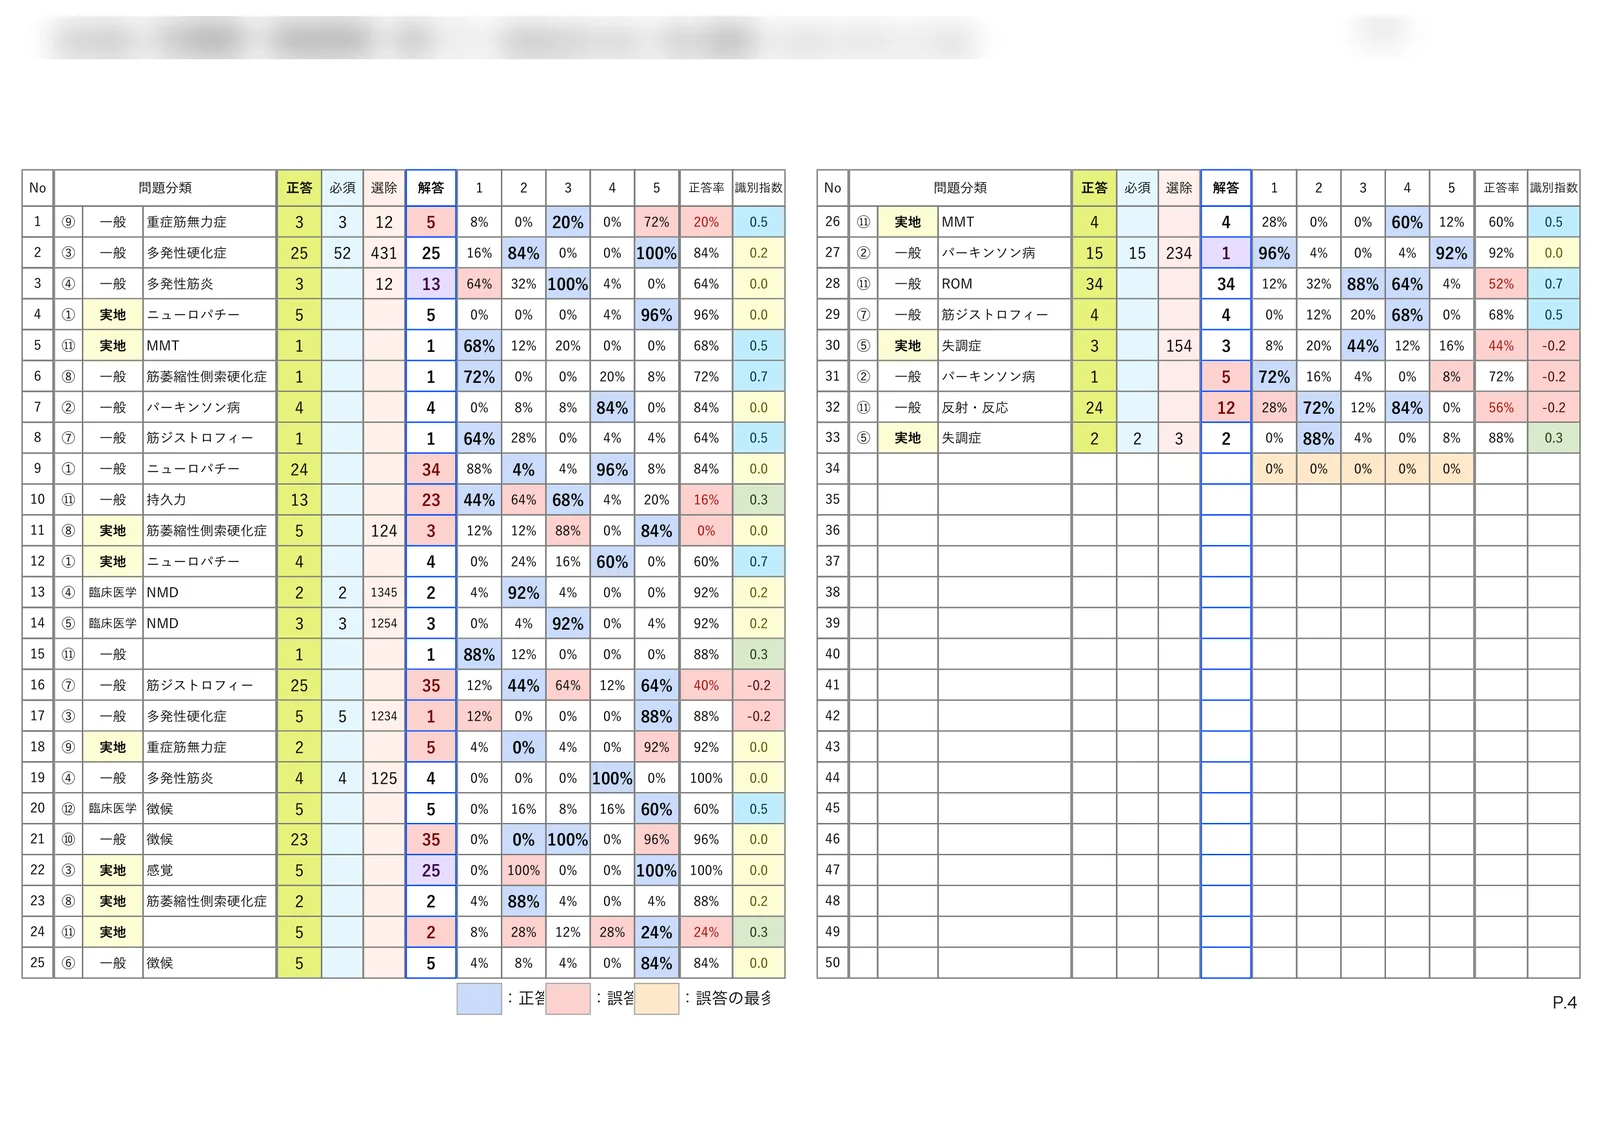
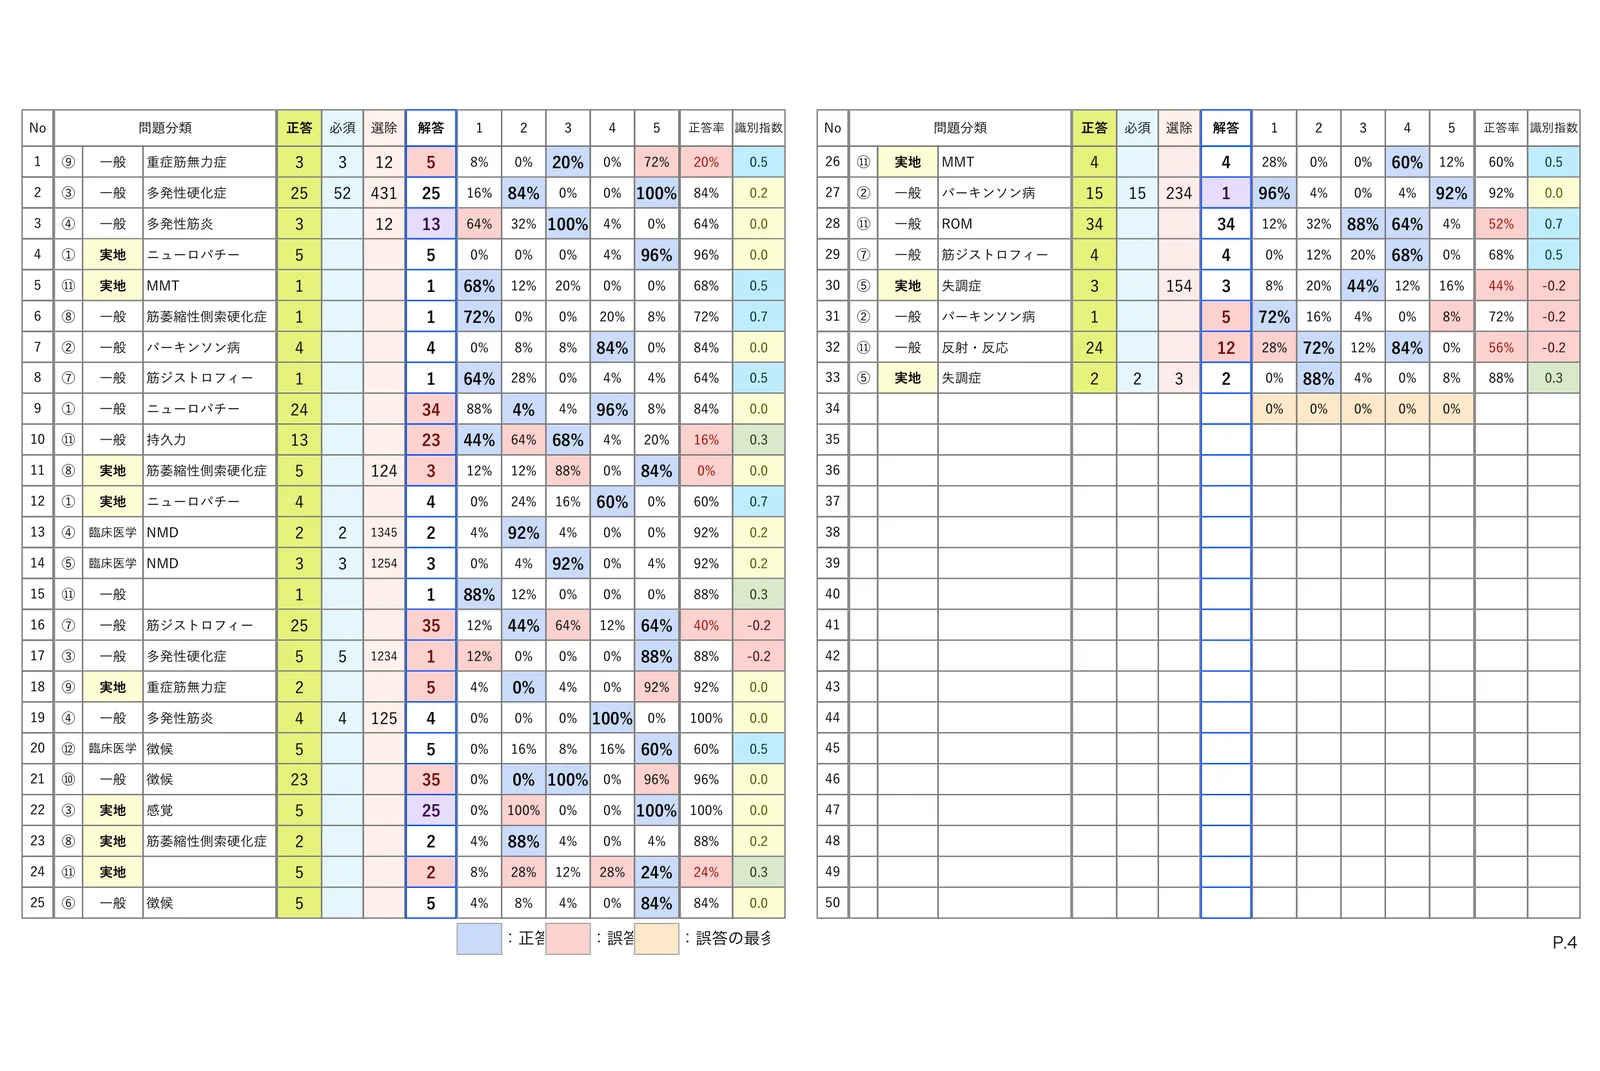
feat: レポート画像上部の不要ヘッダーをトリミング除去し、クリックで拡大する画像モーダル(Esc・外側クリックで閉じる)を実装

diff --git a/exam-patent.html b/exam-patent.html
@@ -248,13 +248,13 @@
 
                         <!-- Image Preview -->
                         <div class="lg:col-span-6 flex flex-col items-center">
-                            <div class="rounded-xl overflow-hidden shadow-lg border border-slate-200 max-w-md w-full bg-slate-50 group relative">
+                            <div class="report-modal-trigger rounded-xl overflow-hidden shadow-lg border border-slate-200 max-w-md w-full bg-slate-50 group relative cursor-pointer cursor-zoom-in transition-all hover:shadow-xl hover:border-secondary/50">
                                 <img src="images/patent/teacher_report_p1.webp" alt="全体試験結果レポート P1 得点分布・箱ひげ図" class="w-full h-auto object-cover transform group-hover:scale-105 transition-transform duration-300">
-                                <div class="absolute inset-0 bg-primary/20 opacity-0 group-hover:opacity-100 transition-opacity flex items-center justify-center">
-                                    <span class="bg-white/90 text-primary font-bold text-xs px-3 py-1.5 rounded-full shadow"><i class="fas fa-search-plus mr-1"></i>実物レポート（P.1）</span>
+                                <div class="absolute inset-0 bg-primary/30 opacity-0 group-hover:opacity-100 transition-opacity flex items-center justify-center">
+                                    <span class="bg-white/95 text-primary font-bold text-xs md:text-sm px-4 py-2 rounded-full shadow-lg flex items-center gap-1.5 transform group-hover:scale-105 transition-transform"><i class="fas fa-search-plus text-secondary"></i>クリックして拡大表示</span>
                                 </div>
                             </div>
-                            <span class="text-[11px] text-slate-400 mt-2">実際の全体試験結果レポート P.1（ヒストグラム ＆ 箱ひげ図）</span>
+                            <span class="text-[11px] text-slate-400 mt-2 flex items-center gap-1"><i class="fas fa-search-plus text-secondary text-[10px]"></i>クリックで全体を拡大プレビュー</span>
                         </div>
                     </div>
                 </div>
@@ -300,13 +300,13 @@
 
                         <!-- Image Preview -->
                         <div class="lg:col-span-6 flex flex-col items-center">
-                            <div class="rounded-xl overflow-hidden shadow-lg border border-slate-200 max-w-md w-full bg-slate-50 group relative">
+                            <div class="report-modal-trigger rounded-xl overflow-hidden shadow-lg border border-slate-200 max-w-md w-full bg-slate-50 group relative cursor-pointer cursor-zoom-in transition-all hover:shadow-xl hover:border-secondary/50">
                                 <img src="images/patent/teacher_report_p2.webp" alt="全体試験結果レポート P2 S-P表分析" class="w-full h-auto object-cover transform group-hover:scale-105 transition-transform duration-300">
-                                <div class="absolute inset-0 bg-primary/20 opacity-0 group-hover:opacity-100 transition-opacity flex items-center justify-center">
-                                    <span class="bg-white/90 text-primary font-bold text-xs px-3 py-1.5 rounded-full shadow"><i class="fas fa-search-plus mr-1"></i>実物レポート（P.2）</span>
+                                <div class="absolute inset-0 bg-primary/30 opacity-0 group-hover:opacity-100 transition-opacity flex items-center justify-center">
+                                    <span class="bg-white/95 text-primary font-bold text-xs md:text-sm px-4 py-2 rounded-full shadow-lg flex items-center gap-1.5 transform group-hover:scale-105 transition-transform"><i class="fas fa-search-plus text-secondary"></i>クリックして拡大表示</span>
                                 </div>
                             </div>
-                            <span class="text-[11px] text-slate-400 mt-2">実際の全体試験結果レポート P.2（S-P表 散布図と要指導者抽出）</span>
+                            <span class="text-[11px] text-slate-400 mt-2 flex items-center gap-1"><i class="fas fa-search-plus text-secondary text-[10px]"></i>クリックで全体を拡大プレビュー</span>
                         </div>
                     </div>
                 </div>
@@ -349,13 +349,13 @@
 
                         <!-- Image Preview -->
                         <div class="lg:col-span-6 flex flex-col items-center">
-                            <div class="rounded-xl overflow-hidden shadow-lg border border-slate-200 max-w-md w-full bg-slate-50 group relative">
+                            <div class="report-modal-trigger rounded-xl overflow-hidden shadow-lg border border-slate-200 max-w-md w-full bg-slate-50 group relative cursor-pointer cursor-zoom-in transition-all hover:shadow-xl hover:border-secondary/50">
                                 <img src="images/patent/teacher_report_p3.webp" alt="全体試験結果レポート P3 撹乱肢分析・散布図" class="w-full h-auto object-cover transform group-hover:scale-105 transition-transform duration-300">
-                                <div class="absolute inset-0 bg-primary/20 opacity-0 group-hover:opacity-100 transition-opacity flex items-center justify-center">
-                                    <span class="bg-white/90 text-primary font-bold text-xs px-3 py-1.5 rounded-full shadow"><i class="fas fa-search-plus mr-1"></i>実物レポート（P.3）</span>
+                                <div class="absolute inset-0 bg-primary/30 opacity-0 group-hover:opacity-100 transition-opacity flex items-center justify-center">
+                                    <span class="bg-white/95 text-primary font-bold text-xs md:text-sm px-4 py-2 rounded-full shadow-lg flex items-center gap-1.5 transform group-hover:scale-105 transition-transform"><i class="fas fa-search-plus text-secondary"></i>クリックして拡大表示</span>
                                 </div>
                             </div>
-                            <span class="text-[11px] text-slate-400 mt-2">実際の全体試験結果レポート P.3（撹乱肢分析と項目分析散布図）</span>
+                            <span class="text-[11px] text-slate-400 mt-2 flex items-center gap-1"><i class="fas fa-search-plus text-secondary text-[10px]"></i>クリックで全体を拡大プレビュー</span>
                         </div>
                     </div>
                 </div>
@@ -399,13 +399,13 @@
 
                         <!-- Image Preview -->
                         <div class="lg:col-span-6 flex flex-col items-center">
-                            <div class="rounded-xl overflow-hidden shadow-lg border border-slate-200 max-w-md w-full bg-slate-50 group relative">
+                            <div class="report-modal-trigger rounded-xl overflow-hidden shadow-lg border border-slate-200 max-w-md w-full bg-slate-50 group relative cursor-pointer cursor-zoom-in transition-all hover:shadow-xl hover:border-secondary/50">
                                 <img src="images/patent/teacher_report_p6.webp" alt="全体試験結果レポート P6 推奨選択肢リスク分析" class="w-full h-auto object-cover transform group-hover:scale-105 transition-transform duration-300">
-                                <div class="absolute inset-0 bg-primary/20 opacity-0 group-hover:opacity-100 transition-opacity flex items-center justify-center">
-                                    <span class="bg-white/90 text-primary font-bold text-xs px-3 py-1.5 rounded-full shadow"><i class="fas fa-search-plus mr-1"></i>実物レポート（P.6）</span>
+                                <div class="absolute inset-0 bg-primary/30 opacity-0 group-hover:opacity-100 transition-opacity flex items-center justify-center">
+                                    <span class="bg-white/95 text-primary font-bold text-xs md:text-sm px-4 py-2 rounded-full shadow-lg flex items-center gap-1.5 transform group-hover:scale-105 transition-transform"><i class="fas fa-search-plus text-secondary"></i>クリックして拡大表示</span>
                                 </div>
                             </div>
-                            <span class="text-[11px] text-slate-400 mt-2">実際の全体試験結果レポート P.6（推奨選択肢リスク分析 問題別・分野別）</span>
+                            <span class="text-[11px] text-slate-400 mt-2 flex items-center gap-1"><i class="fas fa-search-plus text-secondary text-[10px]"></i>クリックで全体を拡大プレビュー</span>
                         </div>
                     </div>
                 </div>
@@ -459,13 +459,13 @@
 
                         <!-- Image Preview -->
                         <div class="lg:col-span-6 flex flex-col items-center">
-                            <div class="rounded-xl overflow-hidden shadow-lg border border-slate-200 max-w-md w-full bg-slate-50 group relative">
+                            <div class="report-modal-trigger rounded-xl overflow-hidden shadow-lg border border-slate-200 max-w-md w-full bg-slate-50 group relative cursor-pointer cursor-zoom-in transition-all hover:shadow-xl hover:border-secondary/50">
                                 <img src="images/patent/teacher_report_p7.webp" alt="全体試験結果レポート P7 学生別マトリクス" class="w-full h-auto object-cover transform group-hover:scale-105 transition-transform duration-300">
-                                <div class="absolute inset-0 bg-primary/20 opacity-0 group-hover:opacity-100 transition-opacity flex items-center justify-center">
-                                    <span class="bg-white/90 text-primary font-bold text-xs px-3 py-1.5 rounded-full shadow"><i class="fas fa-search-plus mr-1"></i>実物レポート（P.7）</span>
+                                <div class="absolute inset-0 bg-primary/30 opacity-0 group-hover:opacity-100 transition-opacity flex items-center justify-center">
+                                    <span class="bg-white/95 text-primary font-bold text-xs md:text-sm px-4 py-2 rounded-full shadow-lg flex items-center gap-1.5 transform group-hover:scale-105 transition-transform"><i class="fas fa-search-plus text-secondary"></i>クリックして拡大表示</span>
                                 </div>
                             </div>
-                            <span class="text-[11px] text-slate-400 mt-2">実際の全体試験結果レポート P.7（学生別S-P表×推奨選択肢ミス）</span>
+                            <span class="text-[11px] text-slate-400 mt-2 flex items-center gap-1"><i class="fas fa-search-plus text-secondary text-[10px]"></i>クリックで全体を拡大プレビュー</span>
                         </div>
                     </div>
                 </div>
@@ -533,13 +533,13 @@
 
                         <!-- Image Preview -->
                         <div class="lg:col-span-6 flex flex-col items-center">
-                            <div class="rounded-xl overflow-hidden shadow-lg border border-slate-200 max-w-md w-full bg-slate-50 group relative">
+                            <div class="report-modal-trigger rounded-xl overflow-hidden shadow-lg border border-slate-200 max-w-md w-full bg-slate-50 group relative cursor-pointer cursor-zoom-in transition-all hover:shadow-xl hover:border-secondary/50">
                                 <img src="images/patent/student_report_p1.webp" alt="個人成績表 P1 スコア概要・レーダーチャート" class="w-full h-auto object-cover transform group-hover:scale-105 transition-transform duration-300">
-                                <div class="absolute inset-0 bg-primary/20 opacity-0 group-hover:opacity-100 transition-opacity flex items-center justify-center">
-                                    <span class="bg-white/90 text-primary font-bold text-xs px-3 py-1.5 rounded-full shadow"><i class="fas fa-search-plus mr-1"></i>実物個人成績表（P.1）</span>
+                                <div class="absolute inset-0 bg-primary/30 opacity-0 group-hover:opacity-100 transition-opacity flex items-center justify-center">
+                                    <span class="bg-white/95 text-primary font-bold text-xs md:text-sm px-4 py-2 rounded-full shadow-lg flex items-center gap-1.5 transform group-hover:scale-105 transition-transform"><i class="fas fa-search-plus text-secondary"></i>クリックして拡大表示</span>
                                 </div>
                             </div>
-                            <span class="text-[11px] text-slate-400 mt-2">実際の個人成績表 P.1（多面的スコアカードとレーダーチャート）</span>
+                            <span class="text-[11px] text-slate-400 mt-2 flex items-center gap-1"><i class="fas fa-search-plus text-secondary text-[10px]"></i>クリックで全体を拡大プレビュー</span>
                         </div>
                     </div>
                 </div>
@@ -593,13 +593,13 @@
 
                         <!-- Image Preview -->
                         <div class="lg:col-span-6 flex flex-col items-center">
-                            <div class="rounded-xl overflow-hidden shadow-lg border border-slate-200 max-w-md w-full bg-slate-50 group relative">
+                            <div class="report-modal-trigger rounded-xl overflow-hidden shadow-lg border border-slate-200 max-w-md w-full bg-slate-50 group relative cursor-pointer cursor-zoom-in transition-all hover:shadow-xl hover:border-secondary/50">
                                 <img src="images/patent/student_report_p3.webp" alt="個人成績表 P3 AIアドバイス" class="w-full h-auto object-cover transform group-hover:scale-105 transition-transform duration-300">
-                                <div class="absolute inset-0 bg-primary/20 opacity-0 group-hover:opacity-100 transition-opacity flex items-center justify-center">
-                                    <span class="bg-white/90 text-primary font-bold text-xs px-3 py-1.5 rounded-full shadow"><i class="fas fa-search-plus mr-1"></i>実物個人成績表（P.3）</span>
+                                <div class="absolute inset-0 bg-primary/30 opacity-0 group-hover:opacity-100 transition-opacity flex items-center justify-center">
+                                    <span class="bg-white/95 text-primary font-bold text-xs md:text-sm px-4 py-2 rounded-full shadow-lg flex items-center gap-1.5 transform group-hover:scale-105 transition-transform"><i class="fas fa-search-plus text-secondary"></i>クリックして拡大表示</span>
                                 </div>
                             </div>
-                            <span class="text-[11px] text-slate-400 mt-2">実際の個人成績表 P.3（AIによる個別学習アドバイスとエール）</span>
+                            <span class="text-[11px] text-slate-400 mt-2 flex items-center gap-1"><i class="fas fa-search-plus text-secondary text-[10px]"></i>クリックで全体を拡大プレビュー</span>
                         </div>
                     </div>
                 </div>
@@ -642,13 +642,13 @@
 
                         <!-- Image Preview -->
                         <div class="lg:col-span-6 flex flex-col items-center">
-                            <div class="rounded-xl overflow-hidden shadow-lg border border-slate-200 max-w-md w-full bg-slate-50 group relative">
+                            <div class="report-modal-trigger rounded-xl overflow-hidden shadow-lg border border-slate-200 max-w-md w-full bg-slate-50 group relative cursor-pointer cursor-zoom-in transition-all hover:shadow-xl hover:border-secondary/50">
                                 <img src="images/patent/student_report_p5.webp" alt="個人成績表 P5 活用ガイド" class="w-full h-auto object-cover transform group-hover:scale-105 transition-transform duration-300">
-                                <div class="absolute inset-0 bg-primary/20 opacity-0 group-hover:opacity-100 transition-opacity flex items-center justify-center">
-                                    <span class="bg-white/90 text-primary font-bold text-xs px-3 py-1.5 rounded-full shadow"><i class="fas fa-search-plus mr-1"></i>実物個人成績表（P.5）</span>
+                                <div class="absolute inset-0 bg-primary/30 opacity-0 group-hover:opacity-100 transition-opacity flex items-center justify-center">
+                                    <span class="bg-white/95 text-primary font-bold text-xs md:text-sm px-4 py-2 rounded-full shadow-lg flex items-center gap-1.5 transform group-hover:scale-105 transition-transform"><i class="fas fa-search-plus text-secondary"></i>クリックして拡大表示</span>
                                 </div>
                             </div>
-                            <span class="text-[11px] text-slate-400 mt-2">実際の個人成績表 P.5（成績表の読み方と学習進め方ガイド）</span>
+                            <span class="text-[11px] text-slate-400 mt-2 flex items-center gap-1"><i class="fas fa-search-plus text-secondary text-[10px]"></i>クリックで全体を拡大プレビュー</span>
                         </div>
                     </div>
                 </div>
@@ -750,6 +750,90 @@
             </section>
 
         </div>
+
+        <!-- Image Modal / Lightbox -->
+        <div id="image-modal" class="fixed inset-0 z-[9999] hidden items-center justify-center bg-slate-950/85 backdrop-blur-md p-3 sm:p-6 transition-opacity duration-300 opacity-0" role="dialog" aria-modal="true" aria-label="レポート画像拡大プレビュー">
+            <!-- Close Button (Top Right) -->
+            <button id="modal-close-btn" class="absolute top-4 right-4 sm:top-6 sm:right-6 w-11 h-11 rounded-full bg-white/10 hover:bg-white/20 text-white flex items-center justify-center text-xl transition-all border border-white/20 z-20 focus:outline-none focus:ring-2 focus:ring-secondary cursor-pointer shadow-lg hover:scale-105 active:scale-95" aria-label="閉じる (Esc)">
+                <i class="fas fa-times"></i>
+            </button>
+
+            <!-- Keyboard & Click Hint (Top Left) -->
+            <div class="absolute top-5 left-6 text-xs text-white/70 hidden sm:flex items-center gap-2 pointer-events-none z-10">
+                <span class="px-2 py-0.5 bg-white/10 rounded border border-white/20 font-mono text-[11px]">Esc</span>
+                <span>または背景クリックで閉じます</span>
+            </div>
+
+            <!-- Modal Dialog Container -->
+            <div id="modal-dialog" class="relative max-w-5xl w-full max-h-[92vh] flex flex-col items-center justify-center pointer-events-auto">
+                <img id="modal-img" src="" alt="" class="max-w-full max-h-[82vh] object-contain rounded-xl shadow-2xl border border-white/10 bg-white">
+                <p id="modal-caption" class="mt-3 text-center text-xs md:text-sm text-slate-200 font-medium tracking-wide bg-slate-900/80 px-4 py-1.5 rounded-full border border-white/10 shadow max-w-xl truncate"></p>
+            </div>
+        </div>
+
+        <script>
+            document.addEventListener('DOMContentLoaded', () => {
+                const modal = document.getElementById('image-modal');
+                const modalImg = document.getElementById('modal-img');
+                const modalCaption = document.getElementById('modal-caption');
+                const closeBtn = document.getElementById('modal-close-btn');
+                const modalDialog = document.getElementById('modal-dialog');
+
+                function openModal(imgSrc, captionText) {
+                    modalImg.src = imgSrc;
+                    modalImg.alt = captionText || '拡大レポート';
+                    modalCaption.textContent = captionText || '';
+                    modal.classList.remove('hidden');
+                    modal.classList.add('flex');
+                    requestAnimationFrame(() => {
+                        modal.classList.remove('opacity-0');
+                        modal.classList.add('opacity-100');
+                    });
+                    document.body.style.overflow = 'hidden';
+                }
+
+                function closeModal() {
+                    modal.classList.remove('opacity-100');
+                    modal.classList.add('opacity-0');
+                    setTimeout(() => {
+                        modal.classList.remove('flex');
+                        modal.classList.add('hidden');
+                        modalImg.src = '';
+                        document.body.style.overflow = '';
+                    }, 200);
+                }
+
+                // Add click listener to all report preview triggers
+                document.querySelectorAll('.report-modal-trigger').forEach(trigger => {
+                    trigger.addEventListener('click', () => {
+                        const img = trigger.querySelector('img');
+                        if (img) {
+                            openModal(img.src, img.alt);
+                        }
+                    });
+                });
+
+                // Close button listener
+                if (closeBtn) {
+                    closeBtn.addEventListener('click', closeModal);
+                }
+
+                // Close when clicking outside of the image (backdrop)
+                modal.addEventListener('click', (e) => {
+                    // Check if clicked directly on modal backdrop or outside modal-img
+                    if (e.target === modal || e.target === modalDialog) {
+                        closeModal();
+                    }
+                });
+
+                // Close when pressing Escape key
+                document.addEventListener('keydown', (e) => {
+                    if (e.key === 'Escape' && !modal.classList.contains('hidden')) {
+                        closeModal();
+                    }
+                });
+            });
+        </script>
     </main>
 
     <div id="footer-placeholder"></div>
